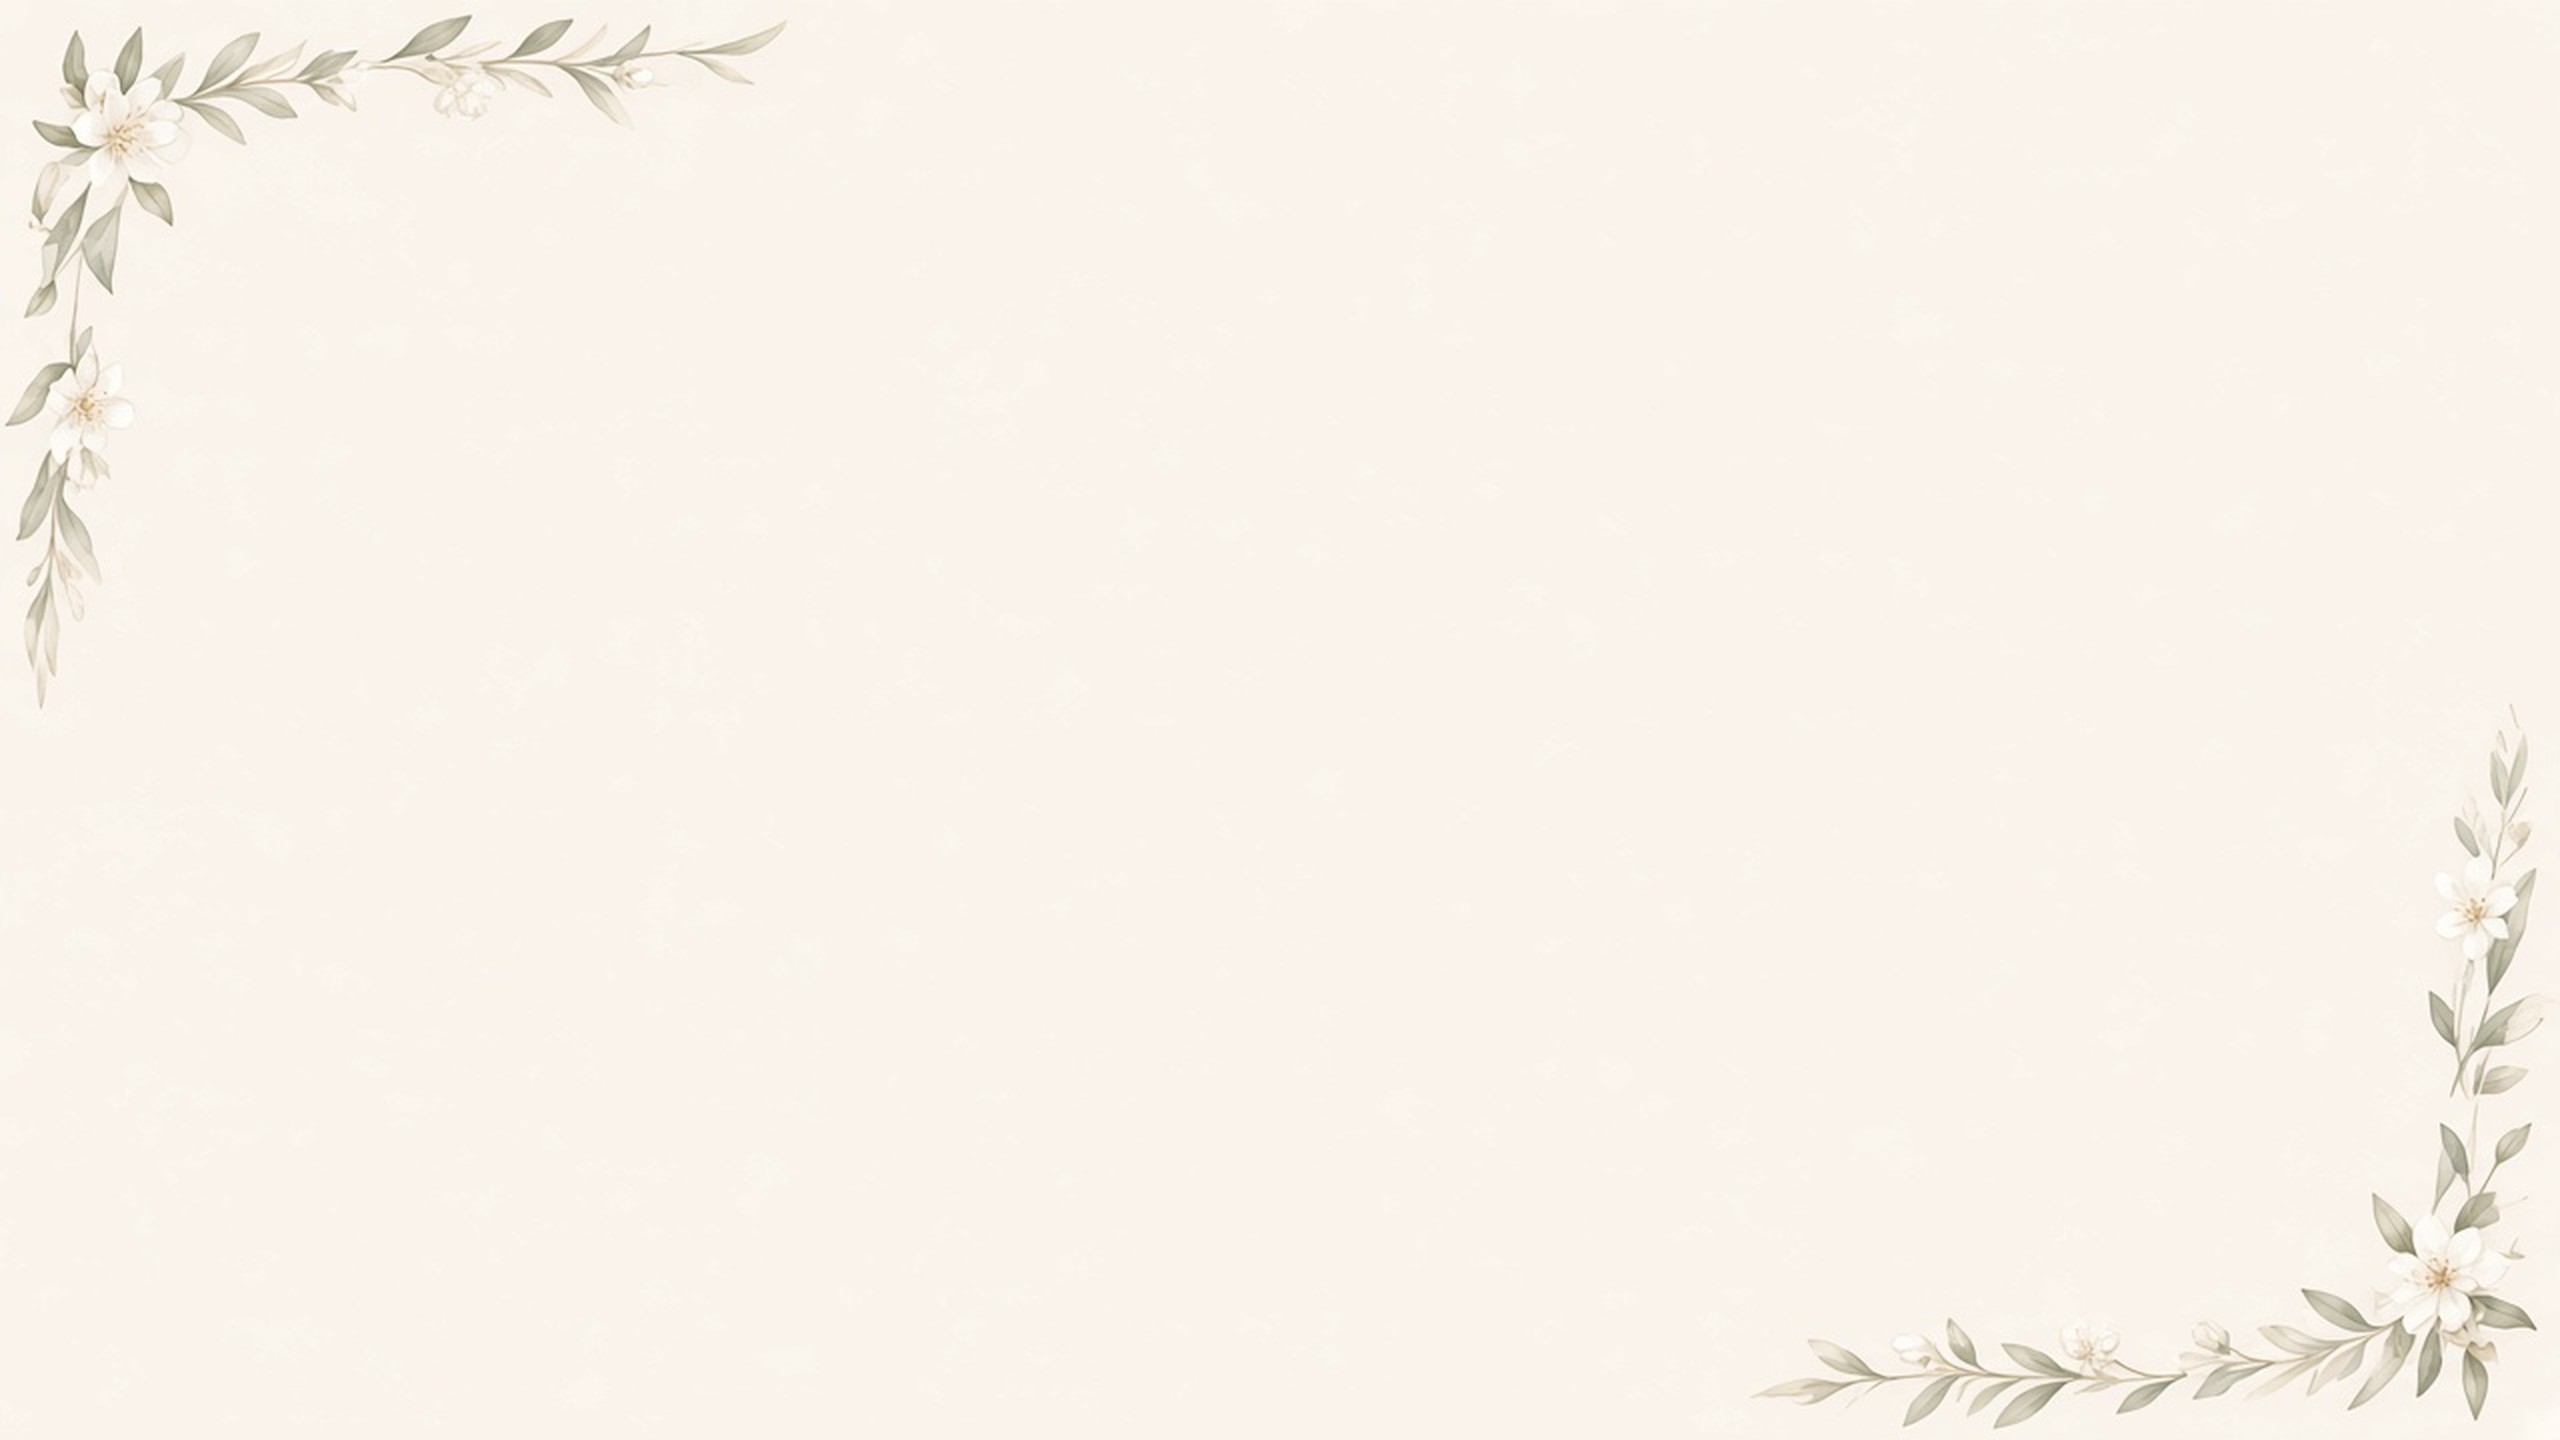
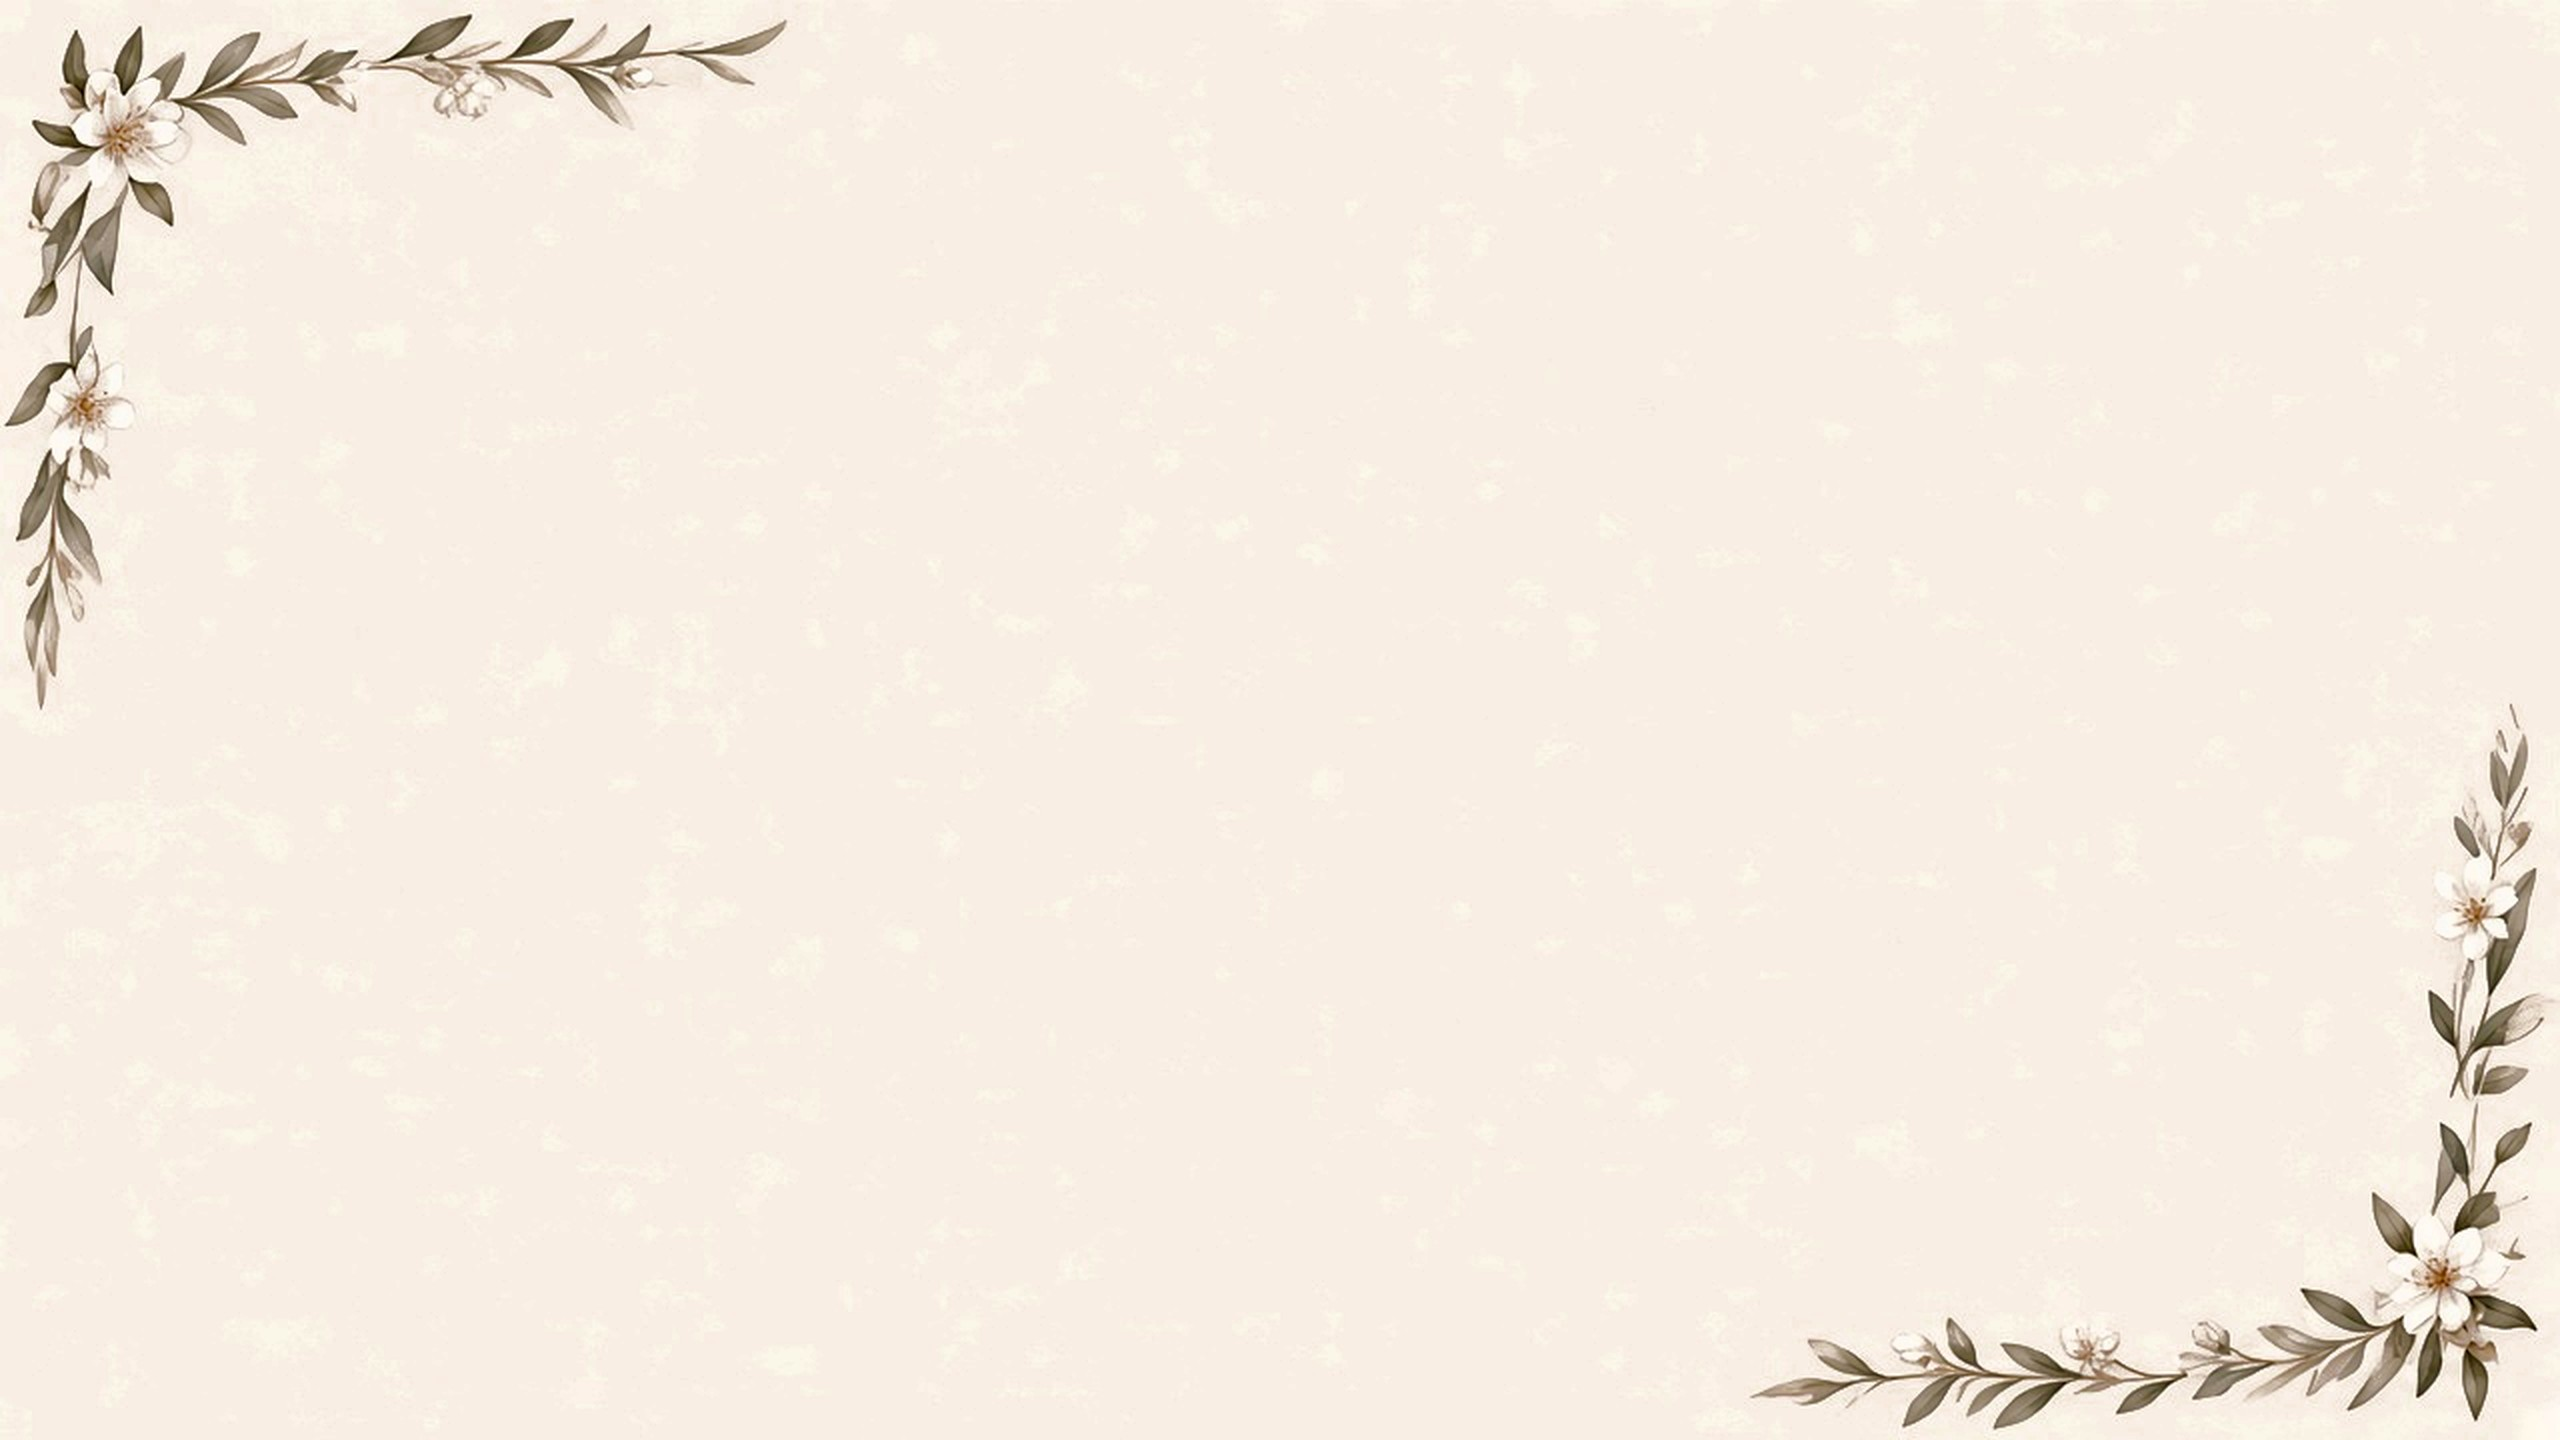
Add looping jasmine bloom motion to About flora
Introduce soft staged jasmine sprites around the About frame with a
seamless GSAP bloom loop, and strengthen botanical contrast so the
watercolor accents read more clearly without crowding the copy.

Changed region(s): [[0.6875, 0.5, 1.0, 1.0], [0.0, 0.0, 0.3125, 0.4688]]

diff --git a/src/modules/aboutBloom.js b/src/modules/aboutBloom.js
@@ -8,16 +8,18 @@ const STAGES = [
 
 /** Soft frame positions — small blooms around the edges, not the center */
 const BLOOM_SPOTS = [
-  { x: "7%", y: "11%", size: 3.1, delay: 0, rotate: -12 },
-  { x: "20%", y: "5%", size: 2.4, delay: 0.8, rotate: 8 },
-  { x: "86%", y: "9%", size: 2.8, delay: 1.5, rotate: 14 },
-  { x: "94%", y: "26%", size: 2.2, delay: 2.2, rotate: -6 },
-  { x: "6%", y: "70%", size: 2.6, delay: 1.2, rotate: 10 },
-  { x: "4%", y: "40%", size: 2.1, delay: 2.9, rotate: -18 },
-  { x: "78%", y: "90%", size: 3.2, delay: 0.5, rotate: 6 },
-  { x: "93%", y: "76%", size: 2.7, delay: 1.9, rotate: -10 },
-  { x: "58%", y: "95%", size: 2.3, delay: 2.6, rotate: 16 },
-  { x: "40%", y: "4%", size: 2.0, delay: 3.3, rotate: -4 },
+  { x: "8%", y: "12%", size: 3.4, delay: 0, rotate: -10 },
+  { x: "22%", y: "5%", size: 2.6, delay: 1.1, rotate: 8 },
+  { x: "84%", y: "8%", size: 3.0, delay: 2.0, rotate: 12 },
+  { x: "94%", y: "28%", size: 2.5, delay: 3.1, rotate: -6 },
+  { x: "5%", y: "68%", size: 2.9, delay: 1.6, rotate: 10 },
+  { x: "4%", y: "38%", size: 2.3, delay: 3.8, rotate: -16 },
+  { x: "76%", y: "91%", size: 3.5, delay: 0.7, rotate: 6 },
+  { x: "93%", y: "74%", size: 2.9, delay: 2.5, rotate: -9 },
+  { x: "56%", y: "95%", size: 2.5, delay: 3.4, rotate: 14 },
+  { x: "38%", y: "4%", size: 2.2, delay: 4.4, rotate: -4 },
+  { x: "14%", y: "92%", size: 2.4, delay: 2.8, rotate: 7 },
+  { x: "96%", y: "52%", size: 2.1, delay: 4.0, rotate: -12 },
 ]
 
 function createBloom(spot) {
@@ -26,7 +28,6 @@ function createBloom(spot) {
   el.style.setProperty("--bloom-x", spot.x)
   el.style.setProperty("--bloom-y", spot.y)
   el.style.setProperty("--bloom-size", `${spot.size}rem`)
-  el.style.setProperty("--bloom-rotate", `${spot.rotate}deg`)
 
   STAGES.forEach((src, index) => {
     const img = document.createElement("img")
@@ -39,15 +40,25 @@ function createBloom(spot) {
     el.appendChild(img)
   })
 
-  return { el, delay: spot.delay }
+  return { el, delay: spot.delay, rotate: spot.rotate }
 }
 
-function animateBloom(el, delay) {
+function animateBloom(el, delay, rotate) {
   const stages = el.querySelectorAll(".about__bloom-stage")
   if (stages.length < 3) return
 
-  gsap.set(stages, { opacity: 0, scale: 0.72 })
-  gsap.set(stages[0], { opacity: 0.55, scale: 0.82 })
+  const [bud, opening, open] = stages
+
+  gsap.set(el, {
+    xPercent: -50,
+    yPercent: -50,
+    rotate,
+    scale: 1,
+    transformOrigin: "50% 65%",
+  })
+
+  gsap.set(stages, { opacity: 0, scale: 0.78 })
+  gsap.set(bud, { opacity: 0.78, scale: 0.88 })
 
   const tl = gsap.timeline({
     repeat: -1,
@@ -56,36 +67,34 @@ function animateBloom(el, delay) {
   })
 
   // Bud → opening
-  tl.to(stages[0], { opacity: 0.2, scale: 0.95, duration: 2.4 }, 0)
-    .to(stages[1], { opacity: 0.85, scale: 1, duration: 2.4 }, 0)
+  tl.to(bud, { opacity: 0.16, scale: 0.98, duration: 2.7 }, 0)
+    .to(opening, { opacity: 0.94, scale: 1.02, duration: 2.7 }, 0)
 
-    // Opening → open blossom
-    .to(stages[1], { opacity: 0.15, scale: 1.04, duration: 2.6 }, 2.2)
-    .to(stages[2], { opacity: 1, scale: 1.08, duration: 2.6 }, 2.2)
+    // Opening → full blossom
+    .to(opening, { opacity: 0.1, scale: 1.06, duration: 2.9 }, 2.5)
+    .to(open, { opacity: 1, scale: 1.1, duration: 2.9 }, 2.5)
 
-    // Soft hold + organic sway
-    .to(
-      el,
-      {
-        rotate: "+=3",
-        duration: 3.2,
-        ease: "sine.inOut",
-        yoyo: true,
-        repeat: 1,
-      },
-      3.2,
-    )
+    // Quiet hold
+    .to(open, { opacity: 0.97, scale: 1.08, duration: 2.3 }, 5.2)
 
-    // Open → gently settle back toward bud for seamless loop
-    .to(stages[2], { opacity: 0.12, scale: 0.9, duration: 2.8 }, 6.4)
-    .to(stages[1], { opacity: 0.35, scale: 0.86, duration: 2.4 }, 6.6)
-    .to(stages[0], { opacity: 0.55, scale: 0.82, duration: 2.6 }, 7.0)
-    .to(stages[1], { opacity: 0, scale: 0.78, duration: 1.8 }, 8.2)
+    // Fold back toward bud for a seamless loop
+    .to(open, { opacity: 0.06, scale: 0.92, duration: 2.9 }, 7.2)
+    .to(opening, { opacity: 0.42, scale: 0.9, duration: 2.5 }, 7.4)
+    .to(bud, { opacity: 0.78, scale: 0.88, duration: 2.7 }, 7.8)
+    .to(opening, { opacity: 0, scale: 0.8, duration: 1.7 }, 9.6)
+    .to({}, { duration: 1.2 })
 
-  // Continuous micro-breath on the whole bloom
+  gsap.to(el, {
+    rotate: rotate + 3.5,
+    duration: 5.4 + delay * 0.12,
+    ease: "sine.inOut",
+    yoyo: true,
+    repeat: -1,
+  })
+
   gsap.to(el, {
     scale: 1.04,
-    duration: 4.8 + delay * 0.15,
+    duration: 4.8 + delay * 0.16,
     ease: "sine.inOut",
     yoyo: true,
     repeat: -1,
@@ -106,25 +115,30 @@ export function initAboutBloom() {
   section.insertBefore(layer, section.querySelector(".about__content"))
 
   if (reduced) {
-    blooms.forEach(({ el }) => {
+    blooms.forEach(({ el, rotate }) => {
       const stages = el.querySelectorAll(".about__bloom-stage")
+      gsap.set(el, { xPercent: -50, yPercent: -50, rotate, scale: 1 })
       gsap.set(stages, { opacity: 0, scale: 1 })
-      gsap.set(stages[2], { opacity: 0.9, scale: 1 })
+      gsap.set(stages[2], { opacity: 0.95, scale: 1 })
     })
     return
   }
 
-  // Backdrop gently breathes so the whole botanical frame feels alive
   const backdropImg = section.querySelector(".about__backdrop img")
   if (backdropImg) {
-    gsap.to(backdropImg, {
-      scale: 1.015,
-      duration: 8,
-      ease: "sine.inOut",
-      yoyo: true,
-      repeat: -1,
-    })
+    gsap.fromTo(
+      backdropImg,
+      { opacity: 0.86, scale: 1 },
+      {
+        opacity: 1,
+        scale: 1.01,
+        duration: 9.5,
+        ease: "sine.inOut",
+        yoyo: true,
+        repeat: -1,
+      },
+    )
   }
 
-  blooms.forEach(({ el, delay }) => animateBloom(el, delay))
+  blooms.forEach(({ el, delay, rotate }) => animateBloom(el, delay, rotate))
 }

diff --git a/src/styles/sections.css b/src/styles/sections.css
@@ -133,9 +133,9 @@
   object-position: center;
   max-width: none;
   opacity: 1;
-  filter: saturate(1.12) contrast(1.06) brightness(0.98);
+  filter: saturate(1.28) contrast(1.14) brightness(0.96);
   transform-origin: center center;
-  will-change: transform;
+  will-change: transform, opacity;
 }
 
 .about__blooms {
@@ -153,10 +153,9 @@
   top: var(--bloom-y);
   width: var(--bloom-size);
   height: var(--bloom-size);
-  transform: translate(-50%, -50%) rotate(var(--bloom-rotate, 0deg));
-  transform-origin: center center;
   will-change: transform;
-  filter: drop-shadow(0 6px 14px rgba(80, 70, 50, 0.12));
+  filter: drop-shadow(0 4px 10px rgba(80, 70, 50, 0.14));
+  opacity: 0.98;
 }
 
 .about__bloom-stage {
